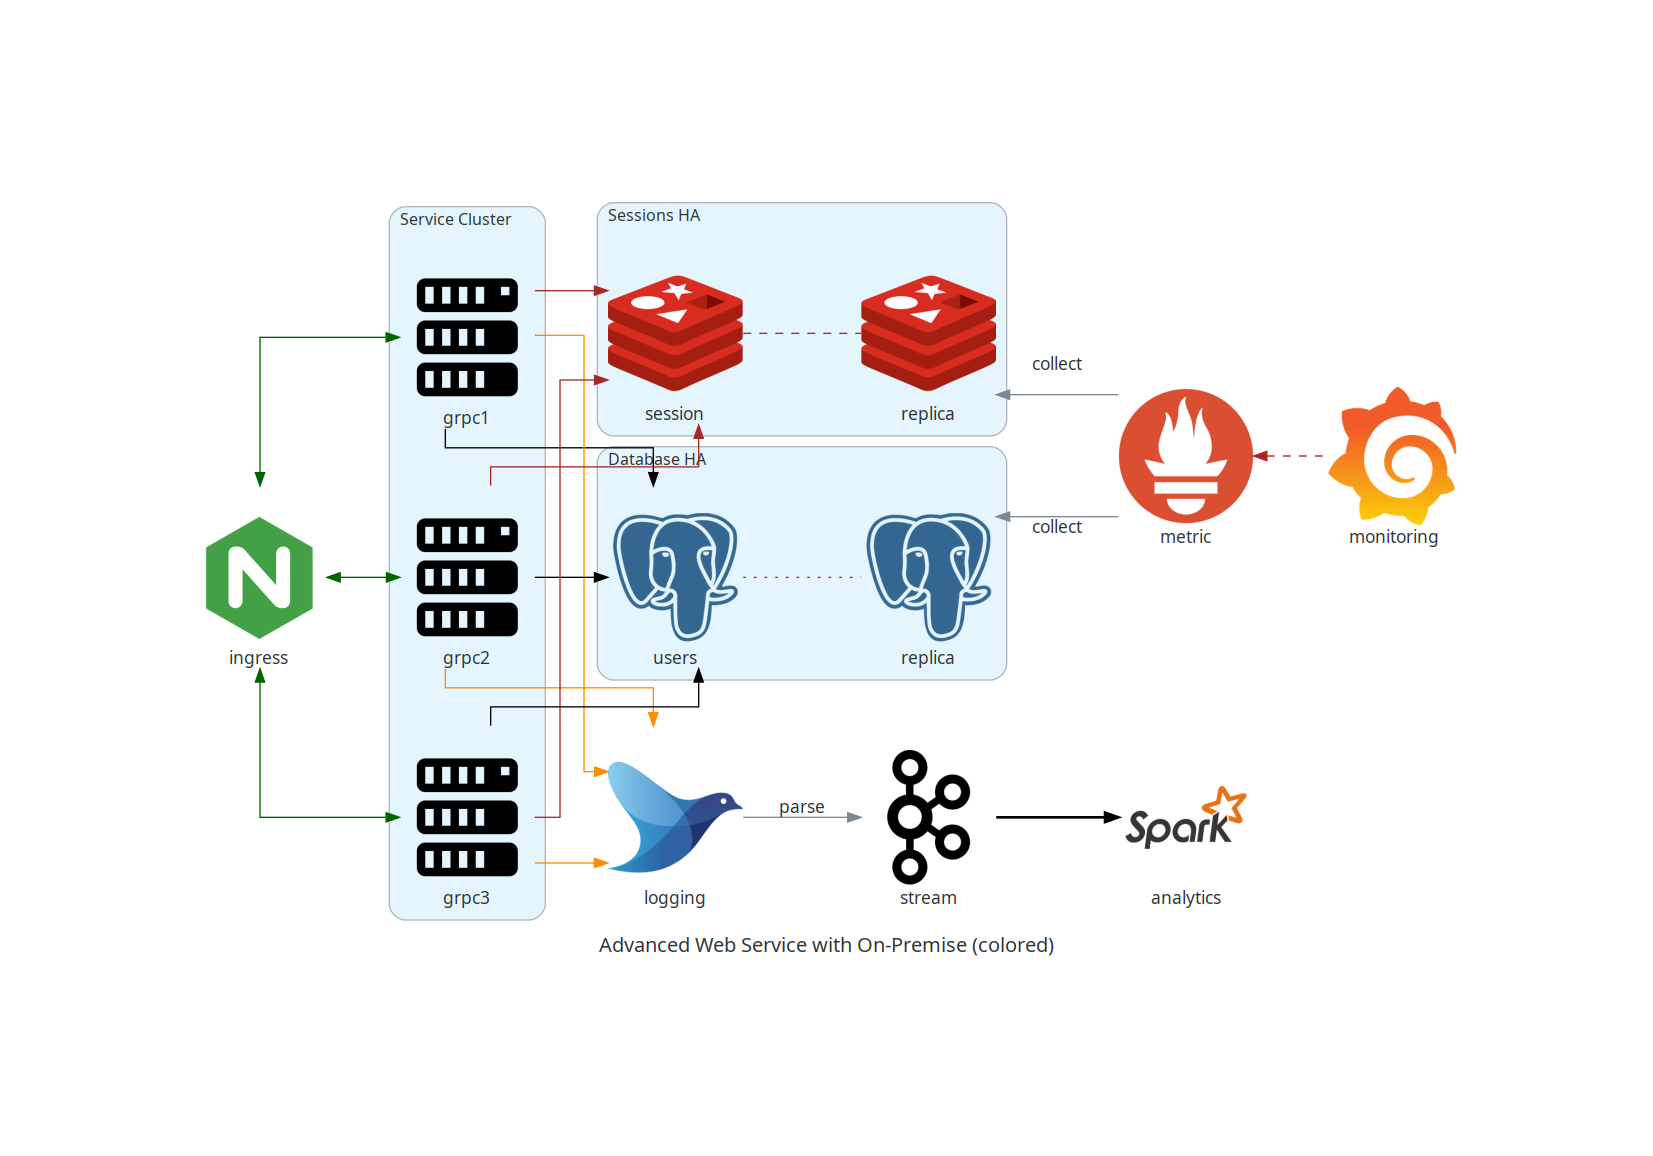
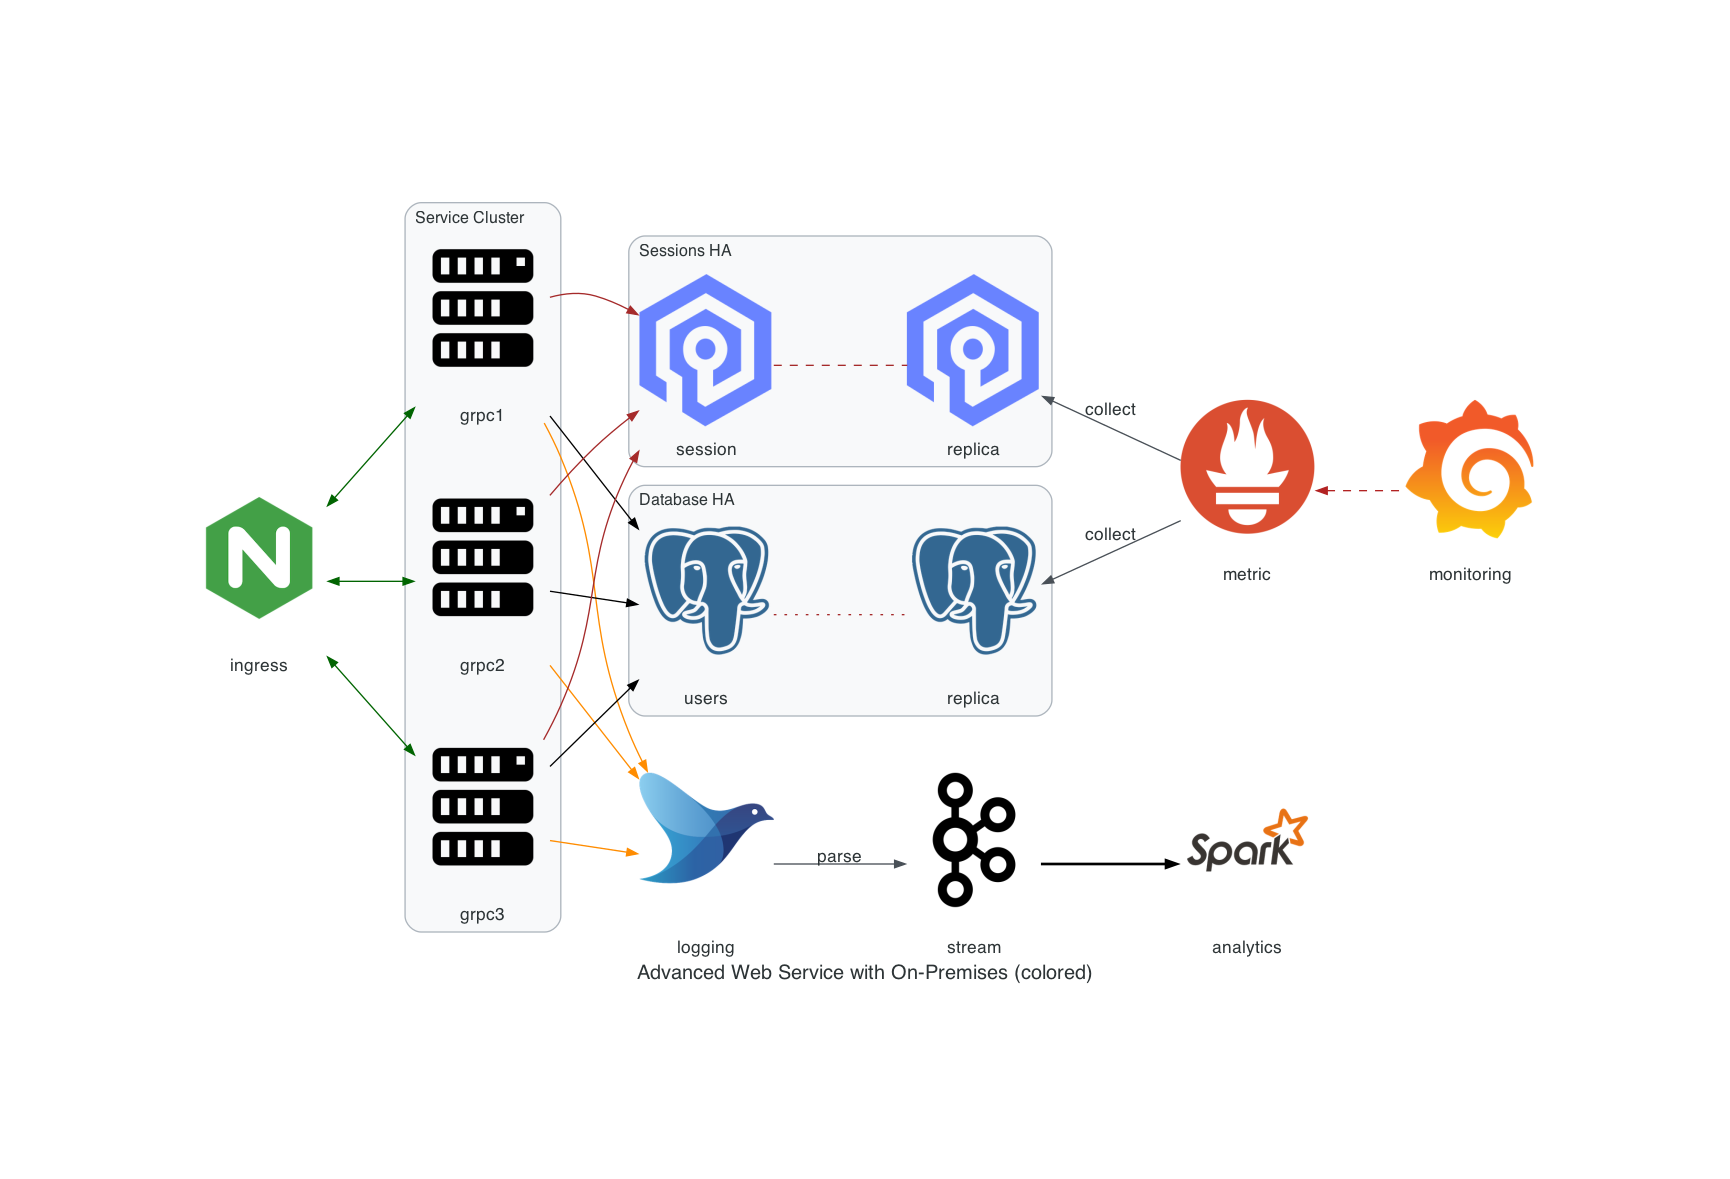
feat(onprem): Add Valkey in-memory node
Add a Valkey node class to diagrams.onprem.inmemory alongside the
  existing Redis class, including its icon resource. Update the node
  reference and example/guide docs to use Valkey, and regenerate all
  affected example diagram images.

  - Add Valkey class and valkey.png resource
  - Document Valkey in docs/nodes/onprem.md
  - Switch advanced web service examples from Redis to Valkey
  - Regenerate all example images in docs/getting-started/examples.md
    and the Edges guide diagrams

Changed region(s): [[0.0926, 0.1557, 0.7713, 0.8408], [0.8022, 0.3426, 0.8947, 0.4983], [0.6171, 0.6851, 0.7713, 0.8097]]

diff --git a/diagrams/onprem/inmemory.py b/diagrams/onprem/inmemory.py
@@ -24,4 +24,8 @@ class Redis(_Inmemory):
     _icon = "redis.png"
 
 
+class Valkey(_Inmemory):
+    _icon = "valkey.png"
+
+
 # Aliases

diff --git a/docs/guides/edge.md b/docs/guides/edge.md
@@ -16,7 +16,7 @@ from diagrams import Cluster, Diagram, Edge
 from diagrams.onprem.analytics import Spark
 from diagrams.onprem.compute import Server
 from diagrams.onprem.database import PostgreSQL
-from diagrams.onprem.inmemory import Redis
+from diagrams.onprem.inmemory import Valkey
 from diagrams.onprem.aggregator import Fluentd
 from diagrams.onprem.monitoring import Grafana, Prometheus
 from diagrams.onprem.network import Nginx
@@ -35,10 +35,10 @@ with Diagram(name="Advanced Web Service with On-Premises (colored)", show=False)
             Server("grpc3")]
 
     with Cluster("Sessions HA"):
-        primary = Redis("session")
+        primary = Valkey("session")
         primary \
             - Edge(color="brown", style="dashed") \
-            - Redis("replica") \
+            - Valkey("replica") \
             << Edge(label="collect") \
             << metrics
         grpcsvc >> Edge(color="brown") >> primary
@@ -80,7 +80,7 @@ from diagrams import Cluster, Diagram, Node
 from diagrams.onprem.analytics import Spark
 from diagrams.onprem.compute import Server
 from diagrams.onprem.database import PostgreSQL
-from diagrams.onprem.inmemory import Redis
+from diagrams.onprem.inmemory import Valkey
 from diagrams.onprem.aggregator import Fluentd
 from diagrams.onprem.monitoring import Grafana, Prometheus
 from diagrams.onprem.network import Nginx
@@ -109,8 +109,8 @@ with Diagram("\nAdvanced Web Service with On-Premise Less edges", show=False) as
             blankHA >> db
 
         with Cluster("Sessions HA"):
-            sess = Redis("session")
-            sess - Redis("replica") << metrics
+            sess = Valkey("session")
+            sess - Valkey("replica") << metrics
             blankHA >> sess
 
     ingress >> serv2 >> blankHA
@@ -143,7 +143,7 @@ from diagrams import Cluster, Diagram, Edge, Node
 from diagrams.onprem.analytics import Spark
 from diagrams.onprem.compute import Server
 from diagrams.onprem.database import PostgreSQL
-from diagrams.onprem.inmemory import Redis
+from diagrams.onprem.inmemory import Valkey
 from diagrams.onprem.aggregator import Fluentd
 from diagrams.onprem.monitoring import Grafana, Prometheus
 from diagrams.onprem.network import Nginx
@@ -176,8 +176,8 @@ with Diagram("\n\nAdvanced Web Service with On-Premise Merged edges", show=False
     blank = Node("", shape="plaintext", height="0.0", width="0.0")
 
     with Cluster("Sessions HA"):
-        sess = Redis("session")
-        sess - Redis("replica") << metrics
+        sess = Valkey("session")
+        sess - Valkey("replica") << metrics
 
     with Cluster("Database HA"):
         db = PostgreSQL("users")

diff --git a/docs/getting-started/examples.md b/docs/getting-started/examples.md
@@ -177,7 +177,7 @@ from diagrams import Cluster, Diagram
 from diagrams.onprem.analytics import Spark
 from diagrams.onprem.compute import Server
 from diagrams.onprem.database import PostgreSQL
-from diagrams.onprem.inmemory import Redis
+from diagrams.onprem.inmemory import Valkey
 from diagrams.onprem.aggregator import Fluentd
 from diagrams.onprem.monitoring import Grafana, Prometheus
 from diagrams.onprem.network import Nginx
@@ -196,8 +196,8 @@ with Diagram("Advanced Web Service with On-Premises", show=False):
             Server("grpc3")]
 
     with Cluster("Sessions HA"):
-        primary = Redis("session")
-        primary - Redis("replica") << metrics
+        primary = Valkey("session")
+        primary - Valkey("replica") << metrics
         grpcsvc >> primary
 
     with Cluster("Database HA"):
@@ -220,7 +220,7 @@ from diagrams import Cluster, Diagram, Edge
 from diagrams.onprem.analytics import Spark
 from diagrams.onprem.compute import Server
 from diagrams.onprem.database import PostgreSQL
-from diagrams.onprem.inmemory import Redis
+from diagrams.onprem.inmemory import Valkey
 from diagrams.onprem.aggregator import Fluentd
 from diagrams.onprem.monitoring import Grafana, Prometheus
 from diagrams.onprem.network import Nginx
@@ -239,8 +239,8 @@ with Diagram(name="Advanced Web Service with On-Premises (colored)", show=False)
             Server("grpc3")]
 
     with Cluster("Sessions HA"):
-        primary = Redis("session")
-        primary - Edge(color="brown", style="dashed") - Redis("replica") << Edge(label="collect") << metrics
+        primary = Valkey("session")
+        primary - Edge(color="brown", style="dashed") - Valkey("replica") << Edge(label="collect") << metrics
         grpcsvc >> Edge(color="brown") >> primary
 
     with Cluster("Database HA"):

diff --git a/docs/nodes/onprem.md b/docs/nodes/onprem.md
@@ -317,6 +317,9 @@ Node classes list of the onprem provider.
 <img width="30" src="/img/resources/onprem/inmemory/redis.png" alt="Redis" style="float: left; padding-right: 5px;" >
 **diagrams.onprem.inmemory.Redis**
 
+<img width="30" src="/img/resources/onprem/inmemory/valkey.png" alt="Valkey" style="float: left; padding-right: 5px;" >
+**diagrams.onprem.inmemory.Valkey**
+
 ## onprem.logging
 
 
